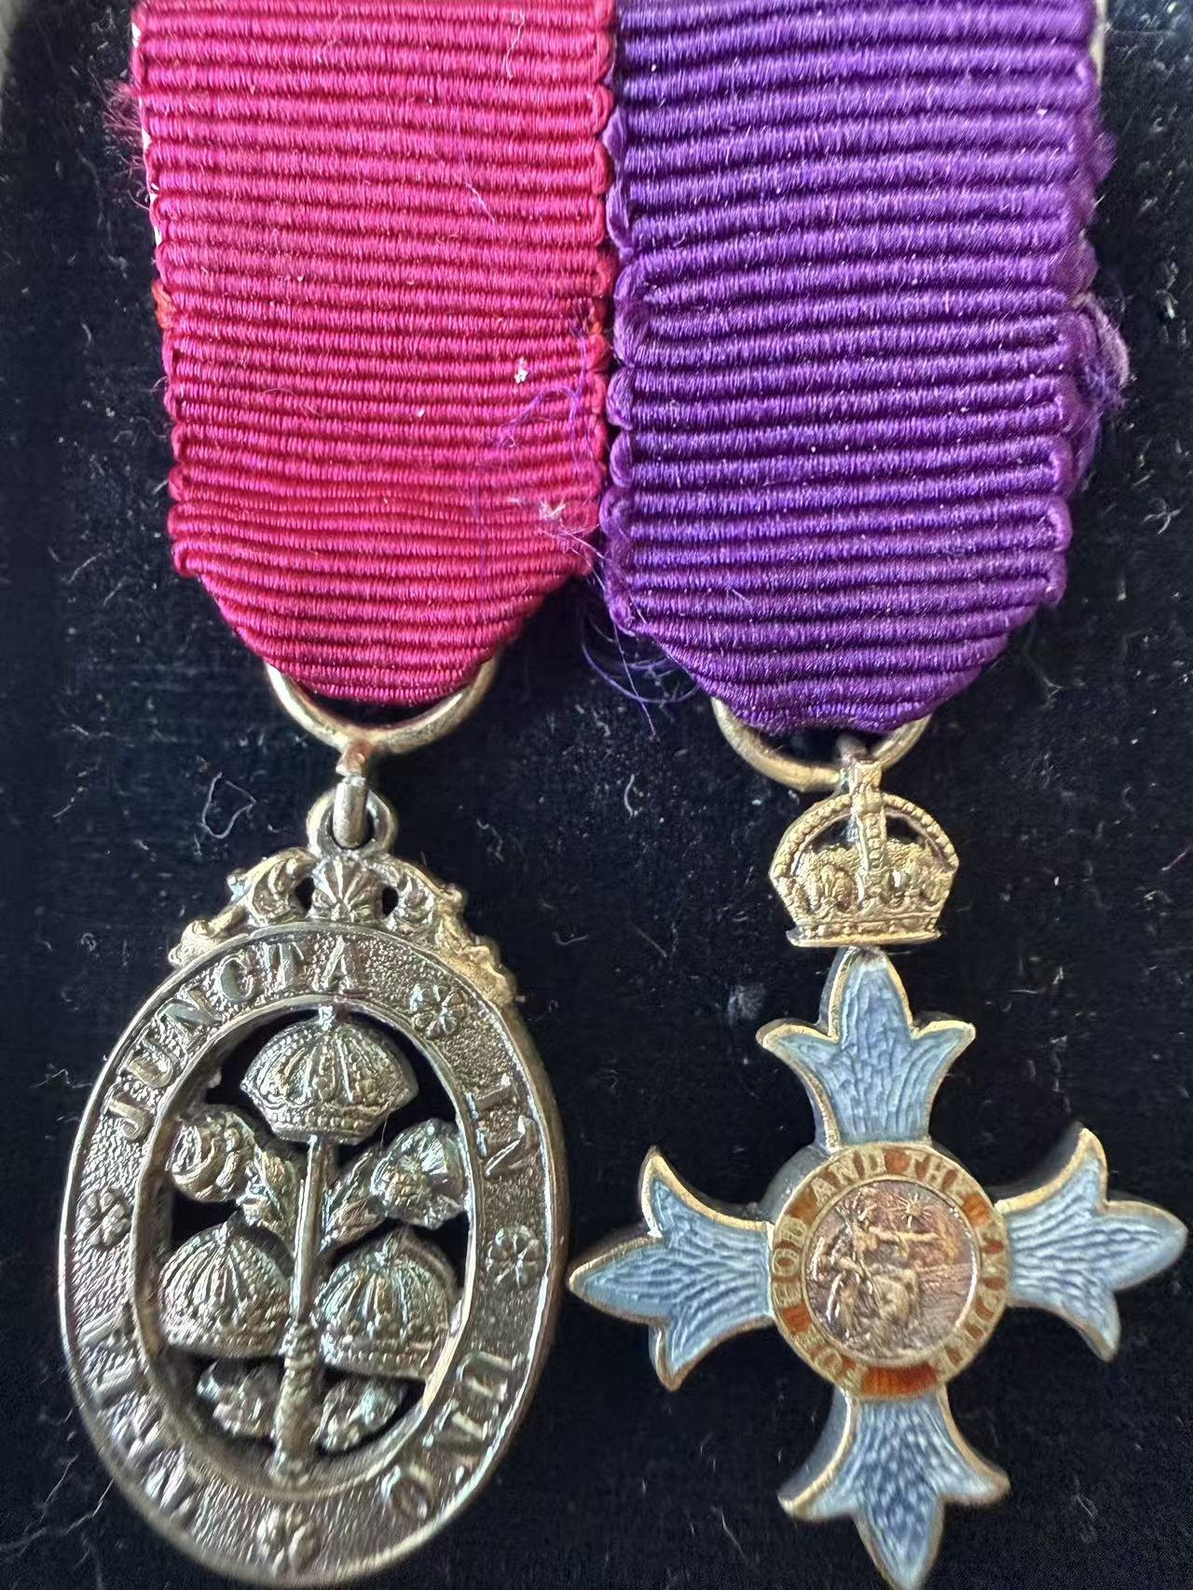
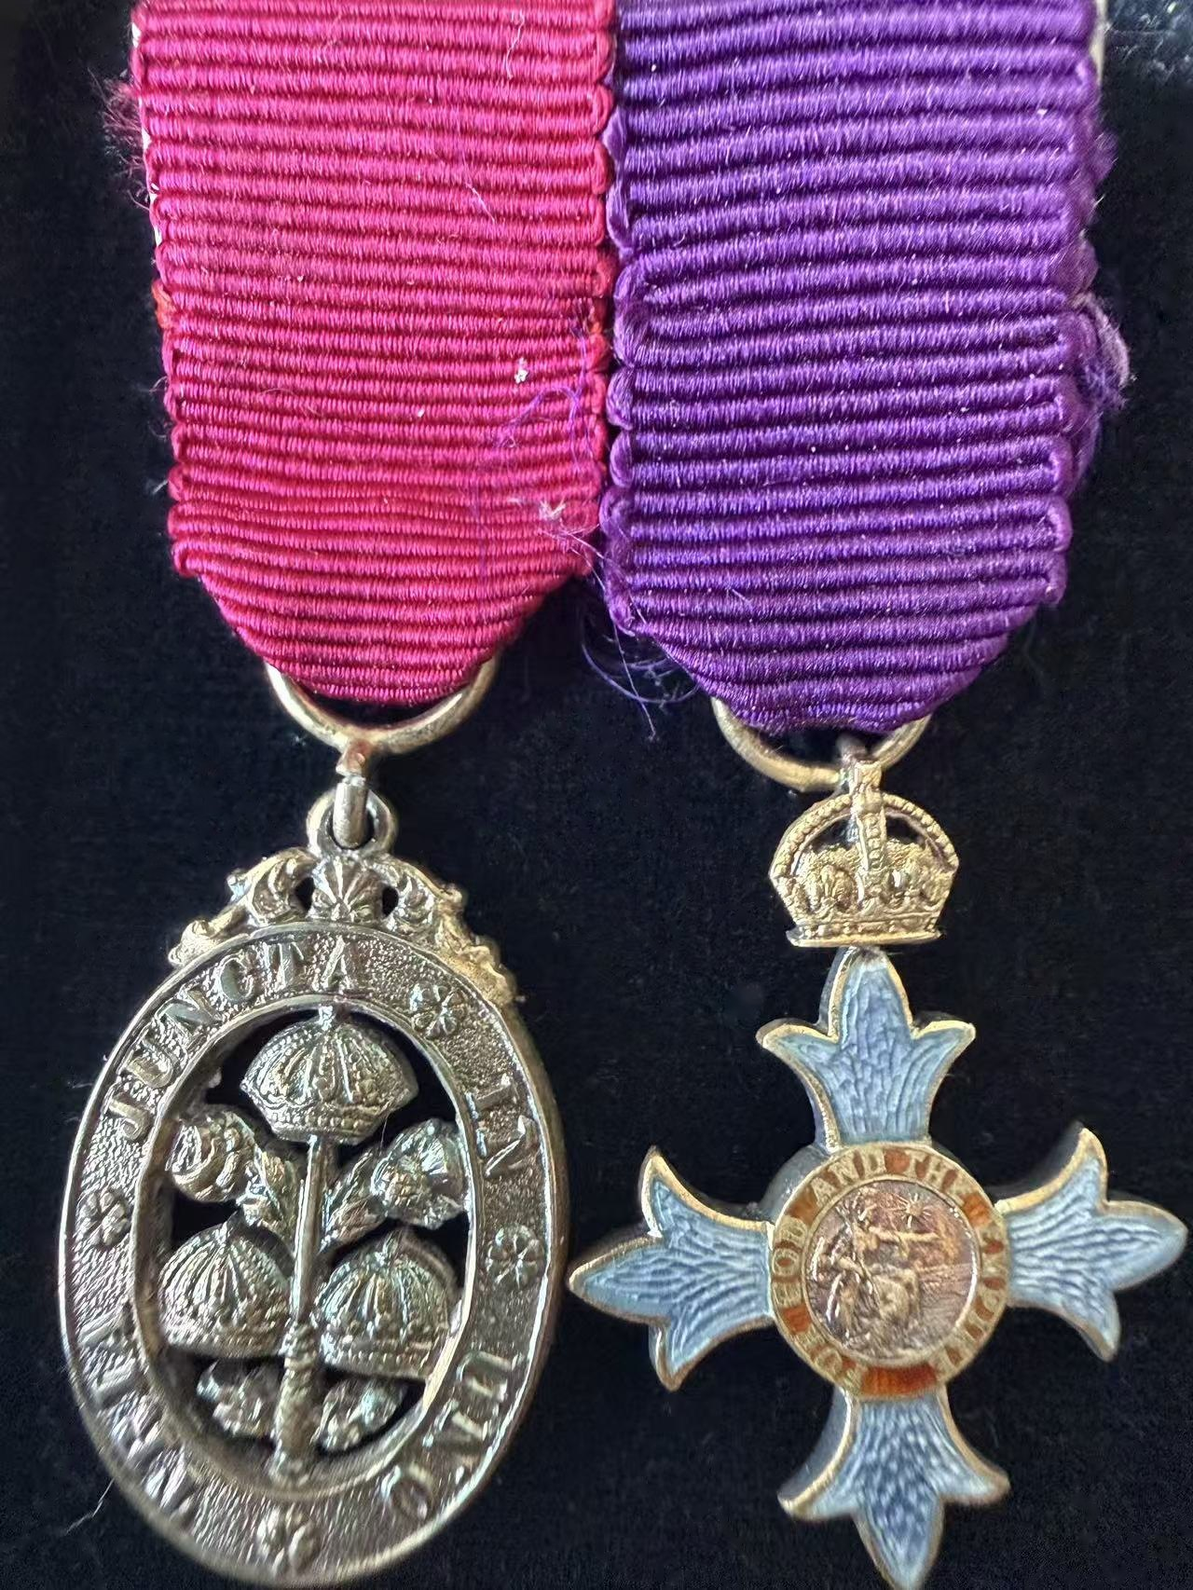
Clean the velvet ground of the miniature group photographs
t027 and c015b (Bath and OBE miniatures, obverse and reverse) gain a
CLEAN_GROUND step before fitting: lint and fibres outside the objects
are inpainted from the surrounding velvet, and the box rim and lighter
patches are flattened down to the velvet level; ribbons, frayed threads
and medals are untouched. c015b joins CHRONICLE_FIT so it gets a
_standard file; c015d (the Spink case) is cut out onto the standard
ground via CHRONICLE_CUT_OUT. data.js points the essay at the new
files; the manual records the rule.

Claude-Session: https://claude.ai/code/session_0146WwfpqSoST3wS5kAsYEcA

diff --git a/assets/data.js b/assets/data.js
@@ -44,7 +44,7 @@ const collection = {
     { id:"c002", group:"craft", title:"精品项链的设计逻辑", image:"/images/treasures/t001_standard.jpg", image2:"/images/chronicles/c002b_standard.jpg", image3:"/images/chronicles/c002c_standard.jpg", image4:"/images/chronicles/c002d_standard.jpg", imageLayout:"grid4", excerpt:"自上而下观赏这件 Florenza 项链。视线首先遇到的是巴洛克掐丝心形小吊坠：体量细小，却以立体爪托与涡卷细节预告了整串的主题和工艺密度。视线继续下移，花瓣形中心座以铸造掐丝构成对称的放射骨架，将四重构图秩序带入视野；马耳他十字主吊坠随即展开，以徽章形制确立整串的历史语义重心。圆形宝石与马眼形宝石分布于各节点，深琥珀色调回应了伊特鲁里亚复兴的色彩传统，在维持视觉密度的同时锁定了情绪基调。<br><br>这件项链的设计核心策略，是以历史权威性抵消材料的非贵重属性，同时采用两条手段：以数量与密度压制对材料本身的注意力，以历史风格引导观者关注设计而非材料本身。风格上，它是四套历史传统的有意识融合：文艺复兴风格复兴提供构图骨架，伊特鲁里亚复兴提供工艺语言，维多利亚情感传统引入浪漫向度，巴洛克复兴赋予戏剧张力，四套语汇各自承担不同的设计功能。<br><br>通过将心形处理为承载宝石的建筑构件而非独立的情感符号，庄严与浪漫两种原本相悖的气质在同一构图中取得平衡。铸造掐丝与模制玻璃石决定了工艺的上限，而在自身目标与工艺约束之内，此件以罕见的完成度实现了它的设计意图。" },
     { id:"c009", group:"craft", title:"刺绣的两种权威", image:"/images/regalia/r009_standard.jpg", image2:"/images/chronicles/c009b.jpg", imageLayout:"side", excerpt:"<strong>工艺</strong><br><br>香槟色织物为底，表面覆盖逐粒手工缝缀的珍珠与水晶。<br><br>刺绣由两套语言交织：一套是菱形交叉网格，每个交点固定一颗仿珍珠或一粒爪镶水晶，密度恒定，形成视觉底层结构；一套是巴洛克涡卷，以珍珠簇与水晶带弯折出对称曲线，从领口向下展开，沿前襟与侧缘翻卷延伸。小珠构成连续曲线，大珠落在弧线顶端与转折处，充当视觉重音。前襟两道纵向镶边带是密度最高处，两套语言在此重叠。<br><br>数百粒珍珠与水晶，逐粒手工定位，是刺绣工坊的标准高输出方式。剪裁宽肩、收腰、直线下摆，长度过臀，丝绸全衬里。<br><br><strong>从制服到时装</strong><br><br>将这件巴尔曼与本收藏中的法国医官礼服并置，刺绣、廓形与构图几乎重合。区别在于：医官礼服上的金线编码军衔，扣面浮雕指明兵种，每种材料在制服条令中都有对应条目；巴尔曼外套上的珍珠和水晶不编码任何制度信息，只声明稀缺性和价格。相似视觉结构，两种完全不同的权威来源。<br><br>这并非巧合。巴尔曼品牌创始人在1945年战后开设工作室时，军装的结构化肩线和严整廓形直接进入了他的时装剪裁。此后，宽肩、收腰、密集刺绣始终是品牌基因的底层代码。<br><br>军礼服的视觉权威依附于穿着场合的制度约束，脱离典礼后，它只是一件做工复杂的衣服。高级时装找到的替代方案是价格、品牌叙事和秀场的媒体放大，把制度性的稀缺替换为市场性的稀缺。刺绣离开制服之后，等级的证明变成等级的消费。" },
     { id:"c012", group:"craft", title:"当纹章换成商标", image:"/images/treasures/t023_standard.jpg", image2:"/images/chronicles/c012b_standard.jpg", image3:"/images/chronicles/c012c_standard.jpg", image4:"/images/chronicles/c012d_standard.jpg", imageLayout:"grid4", excerpt:"<strong>设计和工艺</strong><br><br>黄铜镀金。正面拱形纹章中，双头鹰与双C以浮雕铸出，十四道尖芒宽窄交替展开。背面遍布锤击纹，署香奈儿标记与年份。双头鹰取自香奈儿本人康朋街公寓镀金镜顶的俄罗斯帝国纹章，太阳放射形属1954年起发展的符号。1983年老佛爷入主首年，将这些品牌档案重铸为新配饰。<br><br><strong>国家勋章与时尚项链</strong><br><br>将这件香奈儿勋章项链与本收藏中的颈佩国家勋章并置。勋章各有不同珐琅、金属与铭文，但结构一致：从中心向外辐射的星芒，承载核心信息的圆形区域，颈部佩戴。然后是这条项链：镀金太阳放射形，中心双头鹰与双C标志。同样的几何秩序，但中心的国家纹章换成了商业标志。<br><br><strong>同一技术，两套委托</strong><br><br>制作此件的香奈儿巴黎工坊与制作本收藏中勋章工坊Arthus Bertrand共享法国金匠行会技艺。区别在于基体与去向：Arthus Bertrand以银施珐琅，成品进入国家授勋登记；香奈儿工坊以黄铜覆金，成品进入商业流通。<br><br>勋章的权威是排他性的：它声明佩戴者通过了国家筛选。时装珠宝的信号是包容性的：付款即可拥有。在二级市场上，镀金黄铜的仿制勋章与银质珐琅的真品勋章处于相近的价格区间。当虚构的勋章与真实的勋章同价，制度权威与商业权威之间的力量对比就已经发生了位移。" },
-    { id:"c015", group:"craft", title:"二十五毫米的荣典", image:"/images/treasures/t027_standard.jpg", image2:"/images/chronicles/c015b.jpg", image3:"/images/chronicles/c015c.jpg", image4:"/images/chronicles/c015d.jpg", imageLayout:"grid4", excerpt:"<strong>装配</strong><br><br>装配遵循资历：巴斯勋章创于1725年，居佩戴者右侧；大英帝国勋章创于1917年、1937年前为第I型，居其左。绶带纯紫无中央红条，声明文职级。横条背面冲印：Spink & Son Ld，17 & 18 Piccadilly，London. W.。此店1927年前后迁离皮卡迪利，十字章背面的乔治五世花押把年代收在1917至1927年间。<br><br><strong>二十五毫米上的完整</strong><br><br>卵形章高25毫米。「三合为一」三段拉丁铭文完整可读，三顶王冠珠饰粒粒分明，玫瑰、蓟与三叶草自一茎而出。十字章同高，淡蓝珐琅下压着羽状机刻底纹，中心不列颠尼亚持三叉戟坐于盾侧，外环「为上帝与帝国」清晰环绕。珐琅指示其等级为指挥官级或以上。俱未作简化，缩小的只有尺度。<br><br><strong>两种副本</strong><br><br>与本藏中的香奈儿勋章项链并置。那件保留了勋章的几何：放射尖芒、中心圆牌、颈部佩戴；圆心的国家纹章换成商业标志。它留下形式，舍去内容。<br><br>这对微缩勋章相反：铭文、纹样、底纹、背面花押，一项不减。在时尚复制勋章之前，制度已经订制了自己的缩小版。<br><br>烛光下的餐桌上，无人会俯身核对绶带有无红条，或辨读环上的拉丁文。这些细节服务于合规，而制度是唯一有资格审读它的观众。<br><br>时尚的副本被造出来，是为了被看见而不必被读懂。国家的副本被造出来，是为了被读懂而不必被看见。" },
+    { id:"c015", group:"craft", title:"二十五毫米的荣典", image:"/images/treasures/t027_standard.jpg", image2:"/images/chronicles/c015b_standard.jpg", image3:"/images/chronicles/c015c.jpg", image4:"/images/chronicles/c015d_standard.jpg", imageLayout:"grid4", excerpt:"<strong>装配</strong><br><br>装配遵循资历：巴斯勋章创于1725年，居佩戴者右侧；大英帝国勋章创于1917年、1937年前为第I型，居其左。绶带纯紫无中央红条，声明文职级。横条背面冲印：Spink & Son Ld，17 & 18 Piccadilly，London. W.。此店1927年前后迁离皮卡迪利，十字章背面的乔治五世花押把年代收在1917至1927年间。<br><br><strong>二十五毫米上的完整</strong><br><br>卵形章高25毫米。「三合为一」三段拉丁铭文完整可读，三顶王冠珠饰粒粒分明，玫瑰、蓟与三叶草自一茎而出。十字章同高，淡蓝珐琅下压着羽状机刻底纹，中心不列颠尼亚持三叉戟坐于盾侧，外环「为上帝与帝国」清晰环绕。珐琅指示其等级为指挥官级或以上。俱未作简化，缩小的只有尺度。<br><br><strong>两种副本</strong><br><br>与本藏中的香奈儿勋章项链并置。那件保留了勋章的几何：放射尖芒、中心圆牌、颈部佩戴；圆心的国家纹章换成商业标志。它留下形式，舍去内容。<br><br>这对微缩勋章相反：铭文、纹样、底纹、背面花押，一项不减。在时尚复制勋章之前，制度已经订制了自己的缩小版。<br><br>烛光下的餐桌上，无人会俯身核对绶带有无红条，或辨读环上的拉丁文。这些细节服务于合规，而制度是唯一有资格审读它的观众。<br><br>时尚的副本被造出来，是为了被看见而不必被读懂。国家的副本被造出来，是为了被读懂而不必被看见。" },
     { id:"c003", group:"person", title:"礼服的战争与和平", image:"/images/regalia/r001_standard.jpg", image2:"/images/chronicles/c003b.jpg", image3:"/images/chronicles/c003c.jpg", image4:"/images/chronicles/c003d.jpg", imageLayout:"grid4", excerpt:"1982年5月4日，南大西洋，马岛战争进行中。谢菲尔德号驱逐舰被阿根廷超军旗战机的飞鱼导弹击中右舷，起火后浓烟灌满全舰，舰长索尔特下令弃舰，二十名船员罹难。六日后，舰体在拖往南乔治亚岛途中于大浪中沉没，是二战结束后第一艘被击沉的皇家海军战舰。<br><br>索尔特全名James Frederick Thomas George，1940年4月生。六个月后，其父索尔特少校随潜艇特里亚德号在塔兰托湾失踪，姓名刻于朴茨茅斯海军纪念碑。索尔特后来自愿投入这一使父亲丧命的兵种，历任芬鲸号艇长、北极星核潜艇决心号副长、核潜艇无畏号艇长；谢菲尔德号是他重返水面舰队后的指挥。<br><br>1982年6月1日，索尔特在朴茨茅斯的Moseley &amp; Pounsford定制了这件礼服外套。距沉舰不足三周，距阿根廷投降尚有两周，战争仍在进行。时间耐人寻味：议会与媒体的追责正在展开。这件礼服因此难以不与问责程序和身份修复相联；至少在象征层面，它是一名指挥官在舆论漩涡中重新确立自身位置的努力。<br><br>宽容随后到来。1982年7月，调查委员会向舰队总司令菲尔德豪斯上将报告，认定两名军官存在初步过失。菲尔德豪斯决定不付军法审判，据伍德沃德记述，理由是避免在举国欢腾中「造成不良的舆论气氛」。报告长期封存：2006年公开的摘要删去全部关键结论，完整文本直到2017年才解密。<br><br>索尔特未被追责。他随即出任另一艘42型驱逐舰南安普顿号舰长，1984年任北伍德舰队司令部作战助理参谋长，1986至1987年掌国防情报，晋升海军少将，1988至1990年在皇家国防研究学院，1990至1991年任助理海军参谋长，统筹海湾战争的皇家海军行动，1991年获巴斯勋位。退役后经商，2009年12月3日去世，享年六十九岁。<br><br>这件外套因此是一个问题的物质载体：荣耀在挫败之后，如何通过自身努力和制度宽容重新组织。" },
     { id:"c014", group:"person", title:"礼服的三十分钟", image:"/images/regalia/r004_standard.jpg", image2:"/images/chronicles/c014b.jpg", image3:"/images/chronicles/c014c.jpg", image4:"/images/chronicles/c014d.jpg", imageLayout:"grid4", excerpt:"1944年6月6日零时十八分，诺曼底贝努维尔。第三架霍萨滑翔机撞入运河与奥恩河之间的沼泽地，机身折断。机上载有第14排排长桑迪·史密斯中尉、二十八名士兵，以及此次突击行动唯一的随行军医、皇家陆军医疗军团上尉沃恩。沃恩被着陆撞击抛落在机头前方十五码处的泥地。他昏迷了约三十分钟。<br><br>桥在这三十分钟里被夺下。第25排排长布拉泽里奇颈部中弹，成为诺曼底登陆日死于敌火的第一名盟军士兵。沃恩苏醒后被带到他身边，只看了一眼便知无能为力。此后他在贡德雷咖啡馆设立救护所，以餐桌为手术台。<br><br>1965年，Alkit为沃恩少校定制了这件礼服。距那三十分钟已二十一年，衔级已由上尉而少校。1983年，历史学家斯蒂芬·安布罗斯为他录下两卷口述史，共三十五分钟，其中一节记述着陆后恢复意识的经过。1988年他出版回忆录，2000年2月去世。<br><br>这件礼服因此承载的是荣耀发生时的缺席：一名军医在他唯一被需要的半小时里躺在泥里。此后的军旅生涯，包括这件少校礼服所标记的衔级，都是在那半小时之后重新组织起来的。" },
     { id:"c016", group:"person", title:"翻领上的礼序", image:"/images/treasures/t028_standard.jpg", image2:"/images/chronicles/c016b.jpg", image3:"/images/chronicles/c016c.jpg", image4:"/images/chronicles/c016d.jpg", imageLayout:"grid4", excerpt:"<strong>形制</strong><br><br>三股狐尾细链，两端各缀别针，其下悬五枚微缩章，不系绶带。8.0×3.5厘米，9.9克。<br><br>自左而右。学术棕榈为1955年前式样，两枝叶枝交叉成开口花环，茎上施紫珐琅，叶间以银托镶玫瑰切钻，间以红紫色小石；吊环两侧与正中亦各镶一钻。农业功绩勋章为金质，白珐琅六角星外绕金色叶环，中心为共和国侧像，蓝珐琅环铭「法兰西共和国」，背面铭「农业功绩 1883」。互助会奖章为银质，正面浮雕长袍女子与男子执手，署Roty；背面铭「劳动与社会保障部」，边缘打巴黎造币厂丰饶角与「1 ARGENT」。突尼斯荣耀勋章以切面银芒为底，红绿珐琅星芒相间，中心绿地托贝伊花押，上接镶石花结。末端为柬埔寨莫尼萨拉蓬勋章，镂空叶环环抱高脚杯与书卷，顶上无冠。<br><br>劳动与社会保障部1906年设立，此链的组成不早于此。五枚合乎佩戴礼序：本国勋章在前，本国奖章居中，外国勋章殿后。<br><br><strong>本国荣典</strong><br><br>第三共和国不再册封爵位。荣誉军团之外，各部另设荣典：教育有学术棕榈，农业有功绩勋章，互助会有奖章。<br><br><strong>借来的君主</strong><br><br>后两枚出自君主。突尼斯荣耀勋章由贝伊颁授，法国人的提名则出自法国总驻扎官。莫尼萨拉蓬1905年由柬埔寨国王西索瓦敕令设立，形制与学术棕榈极为接近，法国军官与在柬教师亦在受者之列。1896年，共和国将五种保护国勋章收为法国殖民勋章，此二者不在其列，始终是外国勋章。以功绩取代血统的共和国，在保护国仍借君主之名授予功绩。" },

diff --git a/tools/standardize.py b/tools/standardize.py
@@ -40,9 +40,12 @@ REMOVE_HANGER = {"r009", "r012", "r014"}
 # Garments photographed on a dress form: the pole and base below the form are removed, the form stays.
 REMOVE_STAND = {"r013"}
 # Detail photographs that show the whole object and whose cover is a cut-out are cut out the same way.
-CHRONICLE_CUT_OUT = {"c004b", "c012b", "c012c", "c012d", "c002b", "c002c", "c002d"}
+CHRONICLE_CUT_OUT = {"c004b", "c012b", "c012c", "c012d", "c002b", "c002c", "c002d", "c015d"}
+# photographs on dark velvet whose ground is cleaned before fitting: lint and fibres are inpainted, the box rim and
+# lighter patches are flattened down to the velvet level; the objects themselves are untouched
+CLEAN_GROUND = {"t027", "c015b"}
 # detail photographs kept on their own (textured) ground but still brought to RATIO, like a KEEP_BACKGROUND cover
-CHRONICLE_FIT = {"c006b"}
+CHRONICLE_FIT = {"c006b", "c015b"}
 # Group photographs used as article covers that are cut out like item covers: id -> folder
 EXTRA_CUT_OUT = {"r016": "regalia"}
 
@@ -132,6 +135,35 @@ def fit_ratio(im, mask, size=(W, H)):
             if pr: out.paste(background_band(im, "right", pr), (pl + w, 0))
             im = out
     return im.resize(size, Image.LANCZOS)
+
+
+def clean_ground(im, thresh=58, min_obj=20000, sigma=50):
+    """Dark-velvet photographs: inpaint lint outside the objects, then flatten the ground illumination (box rim, light patches)."""
+    import cv2
+    from scipy import ndimage
+    a = np.asarray(im).copy(); hsv = cv2.cvtColor(a, cv2.COLOR_RGB2HSV)
+    L = a.astype(int).mean(-1); sat = hsv[..., 1].astype(int)
+    notvelvet = L > thresh
+    lab, n = ndimage.label(notvelvet); idx = range(1, n + 1)
+    sizes = ndimage.sum(notvelvet, lab, idx); sats = ndimage.mean(sat, lab, idx)
+    border = np.zeros_like(notvelvet); border[:3, :] = border[-3:, :] = border[:, :3] = border[:, -3:] = True
+    touches = ndimage.sum(border, lab, idx)
+    obj = np.zeros_like(notvelvet); lint = np.zeros_like(notvelvet)
+    for k, (sz, st_, tb) in enumerate(zip(sizes, sats, touches), 1):
+        comp = lab == k
+        if sz >= min_obj and st_ >= 40: obj |= comp          # ribbons with the medals hanging from them
+        elif sz >= 4000 and tb == 0: obj |= comp              # a bright piece away from the frame edge (pin bar, medal)
+        elif sz < 4000: lint |= comp                          # specks and fibres
+    objp = ndimage.binary_dilation(obj, iterations=6)         # protects frayed ribbon threads
+    fix = ndimage.binary_dilation(lint, iterations=3) & ~objp
+    a = cv2.inpaint(a, fix.astype(np.uint8) * 255, 7, cv2.INPAINT_TELEA)
+    L2 = a.astype(float).mean(-1); bg = ~objp
+    target = np.percentile(L2[bg], 35)
+    base = cv2.GaussianBlur(np.where(bg, L2, target).astype(np.float32), (0, 0), sigma)
+    gain = np.clip(target / np.maximum(base, 1), 0.25, 1.0)   # only ever darkens
+    soft = cv2.GaussianBlur(bg.astype(np.float32), (0, 0), 4)
+    gain = 1 - soft * (1 - gain)
+    return Image.fromarray(np.clip(a.astype(float) * gain[..., None], 0, 255).astype(np.uint8))
 
 
 def is_plain_background(im, mask):
@@ -254,6 +286,7 @@ def main(argv):
             if cid in CHRONICLE_CUT_OUT:
                 os.makedirs(os.path.dirname(dst), exist_ok=True)
                 compose(cut_out(im, cid, session), cid, H).save(dst, quality=88, optimize=True); print(f"{cid}: cut out like its cover"); continue
+            if cid in CLEAN_GROUND: im = clean_ground(im)
             mask = object_mask(im, session)
             if cid not in CHRONICLE_FIT and not is_plain_background(im, mask): print(f"{cid}: textured background, left as it is"); continue
             os.makedirs(os.path.dirname(dst), exist_ok=True); fit_ratio(im, mask).save(dst, quality=88, optimize=True); print(f"{cid}: plain background, fitted to 3:4")
@@ -274,6 +307,7 @@ def main(argv):
             from rembg import new_session; session = new_session(MODEL)
         large = dst.replace("_standard.jpg", "_large.jpg")
         if iid in KEEP_BACKGROUND:
+            if iid in CLEAN_GROUND: im = clean_ground(im)
             mask = object_mask(im, session)
             out = fit_ratio(im, mask); how = "background kept, fitted to 3:4"
             lh = int(min(LARGE_H, max(H, im.height))); big = fit_ratio(im, mask, (int(round(lh * RATIO)), lh))

diff --git a/_notes/站点手册.md b/_notes/站点手册.md
@@ -148,7 +148,8 @@
 ### 札记细部图
 
 - 原则：封面为抠图的勋章与珠宝，其细部图（含近景）同样抠图，背景与封面一致；礼服的领、袖、纽扣、商标近景不抠（背景就是衣服本身，分割会产生空洞与撕边，已试样否决）；封面保留盒子或灰底者，其细部图保持照片原样。
-- `CHRONICLE_FIT`：有纹理原底但仍需补足 3:4 的细部图：c006b（红呢盒底）。
+- `CHRONICLE_FIT`：有纹理原底但仍需补足 3:4 的细部图：c006b（红呢盒底）、c015b（黑丝绒盒底）。
+- `CLEAN_GROUND`：黑丝绒盒底照片在补足比例前先清理底面：器物以外的浮毛与纤维用周围绒面修补，盒沿与受光较亮的区域按低频照度拉平到绒面水平（只压暗不提亮）；器物与绶带毛边不动。目前为 t027 与 c015b（2026 年 10 月，策展人要求）。c015d 原盒照片由桌面抠出置于浅灰米底。
 - 纯色背景的细部图补足 3:4：c002c、c004b、c012b、c012c、c012d、c013f 有 `_standard` 版本；其余直接用原图。
 - 横幅近景不处理。
 
